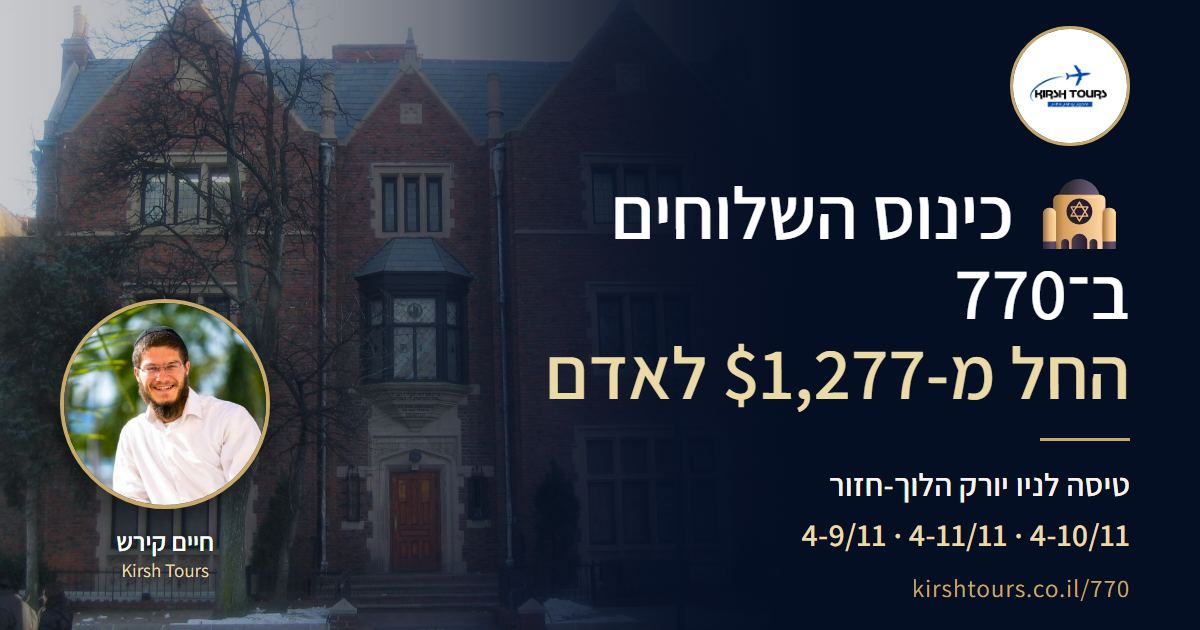
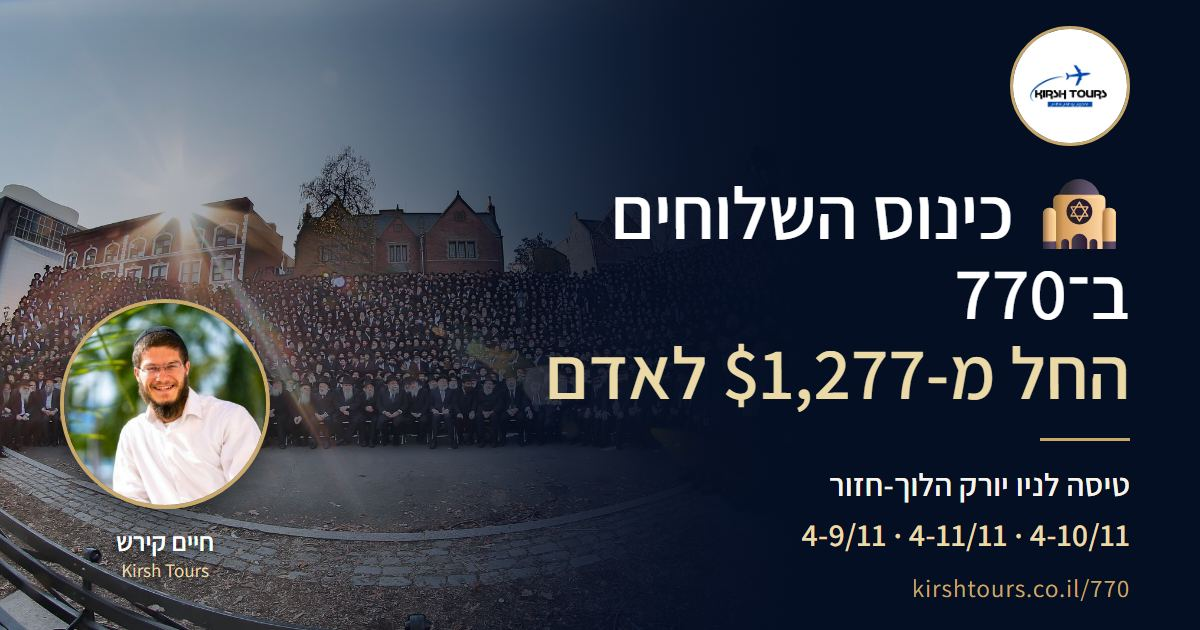
דילים 2026-11-01

Changed region(s): [[0.0, 0.0, 0.5242, 1.0]]

diff --git a/770/kinus/index.html b/770/kinus/index.html
@@ -14,7 +14,7 @@
 <link rel="canonical" href="https://kirshtours.co.il/770/kinus/">
 
 
-<meta property="og:image" content="https://kirshtours.co.il/770/img/og-kinus.jpg?v=94c6759c"><meta property="og:image:width" content="1200"><meta property="og:image:height" content="630">
+<meta property="og:image" content="https://kirshtours.co.il/770/img/og-kinus.jpg?v=365449a2"><meta property="og:image:width" content="1200"><meta property="og:image:height" content="630">
 <meta name="theme-color" content="#050f24">
 <link rel="icon" href="../../logo.jpg">
 <link rel="stylesheet" href="../../vendor/fonts.css">
@@ -38,7 +38,7 @@
 <main id="main" tabindex="-1">
 <div data-exp="2026-11-03">
 <section class="p770-hero small">
-  <div class="slides" aria-hidden="true"><img src="../../770/img/hero/1.jpg" srcset="../../770/img/hero/s-1.jpg 800w, ../../770/img/hero/1.jpg 1600w" sizes="100vw" alt="" class="on" fetchpriority="high"><img data-src="../../770/img/hero/2.jpg" data-srcset="../../770/img/hero/s-2.jpg 800w, ../../770/img/hero/2.jpg 1600w" sizes="100vw" alt=""><img data-src="../../770/img/hero/3.jpg" data-srcset="../../770/img/hero/s-3.jpg 800w, ../../770/img/hero/3.jpg 1600w" sizes="100vw" alt=""><img data-src="../../770/img/hero/4.jpg" data-srcset="../../770/img/hero/s-4.jpg 800w, ../../770/img/hero/4.jpg 1600w" sizes="100vw" alt=""><img data-src="../../770/img/hero/5.jpg" data-srcset="../../770/img/hero/s-5.jpg 800w, ../../770/img/hero/5.jpg 1600w" sizes="100vw" alt=""><img data-src="../../770/img/hero/6.jpg" data-srcset="../../770/img/hero/s-6.jpg 800w, ../../770/img/hero/6.jpg 1600w" sizes="100vw" alt=""></div>
+  <div class="slides" aria-hidden="true"><img src="../../770/img/hero/moed/kinus.jpg" srcset="../../770/img/hero/moed/s-kinus.jpg 800w, ../../770/img/hero/moed/kinus.jpg 1600w" sizes="100vw" alt="" class="on" fetchpriority="high"><img data-src="../../770/img/hero/1.jpg" data-srcset="../../770/img/hero/s-1.jpg 800w, ../../770/img/hero/1.jpg 1600w" sizes="100vw" alt=""><img data-src="../../770/img/hero/2.jpg" data-srcset="../../770/img/hero/s-2.jpg 800w, ../../770/img/hero/2.jpg 1600w" sizes="100vw" alt=""><img data-src="../../770/img/hero/3.jpg" data-srcset="../../770/img/hero/s-3.jpg 800w, ../../770/img/hero/3.jpg 1600w" sizes="100vw" alt=""><img data-src="../../770/img/hero/4.jpg" data-srcset="../../770/img/hero/s-4.jpg 800w, ../../770/img/hero/4.jpg 1600w" sizes="100vw" alt=""><img data-src="../../770/img/hero/5.jpg" data-srcset="../../770/img/hero/s-5.jpg 800w, ../../770/img/hero/5.jpg 1600w" sizes="100vw" alt=""></div>
   <div class="wrap">
     <div class="crumbs" data-reveal><a href="../../770/">טיסות ל-770</a> &nbsp;/&nbsp; כינוס השלוחים</div>
     <h1 data-reveal style="--d:.1s"><i aria-hidden="true">🕍</i> כינוס השלוחים ב־770<small>הכינוס העולמי של השלוחים ב־770</small></h1>
